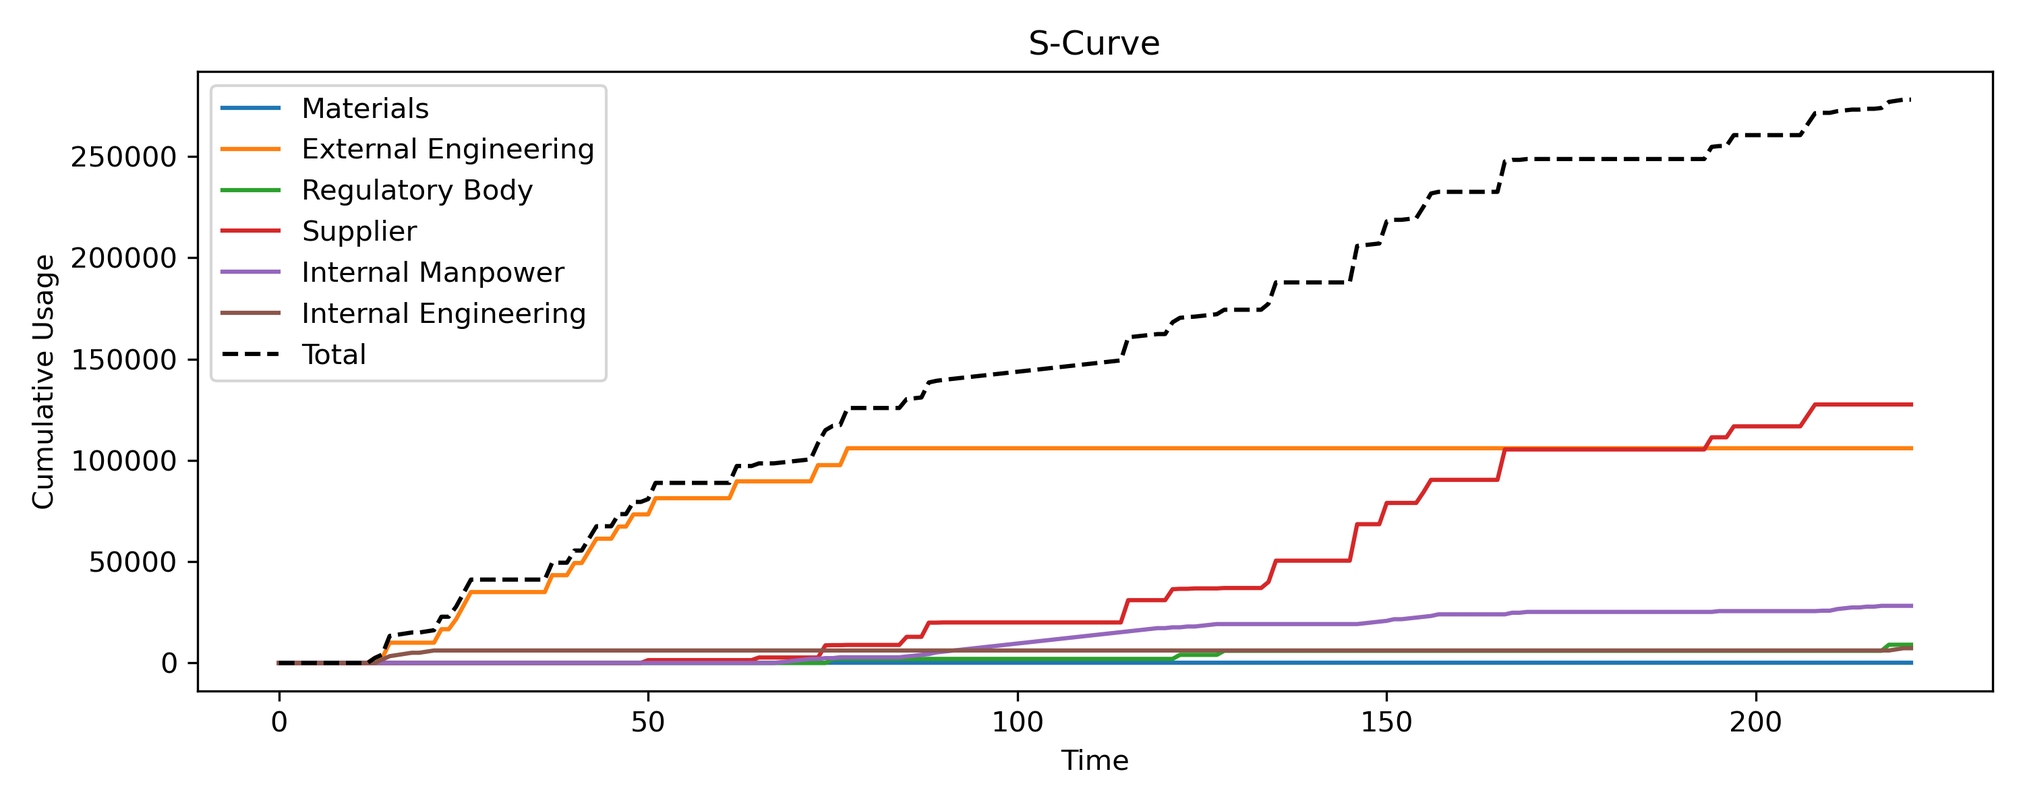
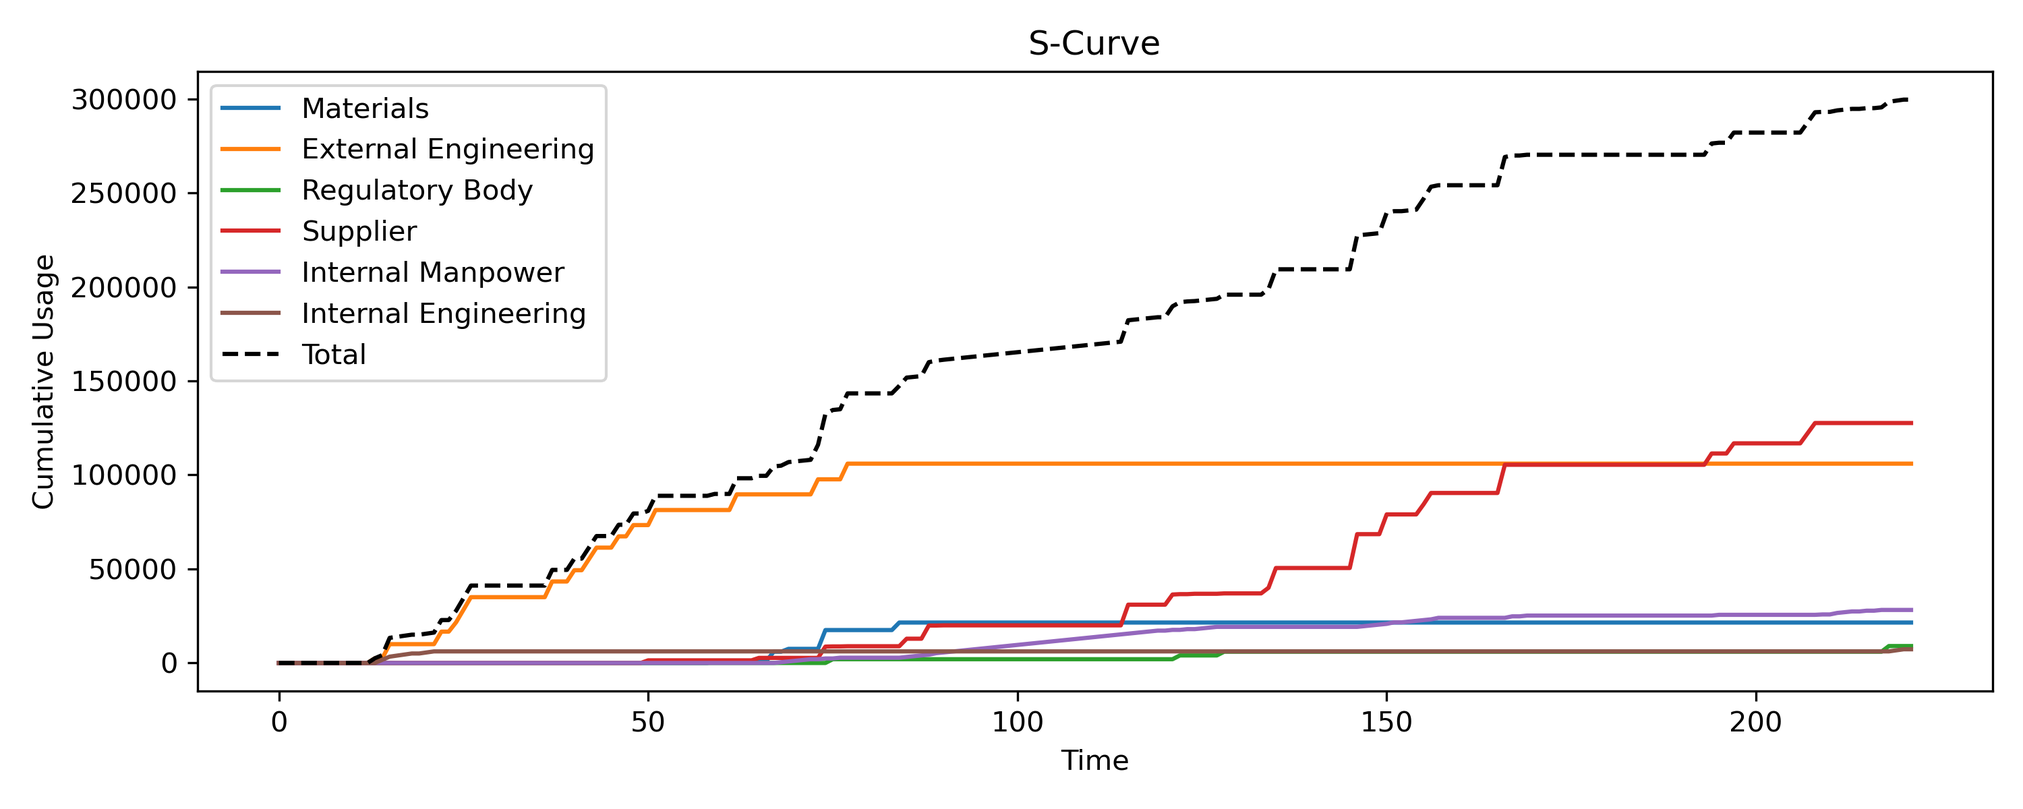
update pm

diff --git a/Project Managment/All_Integrated.py b/Project Managment/All_Integrated.py
@@ -1,8 +1,8 @@
 from graphviz import Digraph
 from collections import defaultdict, deque
-import pandas as pd
 import matplotlib.pyplot as plt
 import pandas as pd
+import numpy as np
 
 section_colors = {
     'Engineering': '#005580',
@@ -26,13 +26,17 @@ column_map = {
     "duration": "Unnamed: 9",
     "section": "Unnamed: 1",
     "parents": "Unnamed: 11", 
-    "Materials": "Unnamed: 13",
+    "Materials": 299577,
     "External Engineering": "Unnamed: 14",
     "Regulatory Body": "Unnamed: 15",
     "Supplier": "Unnamed: 16",
     "Internal Manpower": "Unnamed: 17",
     "Internal Engineering": "Unnamed: 18"
 }
+
+# Print the column names for debugging
+print("Column names in the DataFrame:")
+print(df.columns.tolist())
 
 # Filter the dataframe to the target rows
 df = df.iloc[start_row:end_row].copy()
@@ -228,7 +232,7 @@ def resource_profile():
                     profile[r][int(row['Finish'])] += row[r] / 2
                 else:
                     profile[r][int(row['Finish'])] += row[r]
-
+            # print(f"Resource {r}: {sum(profile[r])}") 
             # "Materials": float(row.get(column_map["Materials"], 0)),
             # "External Engineering": float(row.get(column_map["External Engineering"], 0)),
             # "Regulatory Body": float(row.get(column_map["Regulatory Body"], 0)),
@@ -248,7 +252,6 @@ def resource_profile():
     plt.savefig('resource_profile.png', dpi=300)
 
 def s_curve():
-    import numpy as np
     # Compute cumulative resource for each type
     cumulative_profile = {r: [0]*len(time_range) for r in res_types}
     for r in res_types:
@@ -265,6 +268,29 @@ def s_curve():
     ax.legend()
     plt.tight_layout()
     plt.savefig('s_curve.png', dpi=300)
+
+def cash_flow():
+    cumulative_profile = {r: [0]*len(time_range) for r in res_types}
+    for r in res_types:
+        cumulative_profile[r] = [sum(profile[r][:i+1]) for i in range(len(profile[r]))]
+    cash_outflow = sum(np.array(cumulative_profile[r]) for r in res_types)
+    total_cost = cash_outflow[-1]
+    requested_payment = total_cost * (1 + 0.3)
+    cash_inflow = np.zeros(len(time_range))
+    cash_inflow[0:] += requested_payment * 0.2  # At the beginning
+    cash_inflow[round(len(time_range)/2):] += requested_payment * 0.4  # Second payment
+    cash_inflow[-1] += requested_payment * 0.4  # Final payment at the end
+    cash_flow = cash_inflow - cash_outflow
+    # Plot cash flow
+    fig, ax = plt.subplots(figsize=(10,4))
+    ax.plot(time_range, cash_flow, label='Cash Flow', color='blue')
+    ax.axhline(0, color='black', linestyle='--', linewidth=0.5)
+    ax.set_xlabel('Time')
+    ax.set_ylabel('Cash Flow')
+    ax.set_title('Cash Flow Over Time')
+    ax.legend()
+    plt.tight_layout()
+    plt.savefig('cash_flow.png', dpi=300)
 
 # ----------------------------------------------------------
 task_lookup, children = init()
@@ -294,3 +320,5 @@ network_diagram()
 gantt()
 resource_profile()
 s_curve()
+cash_flow()
+# ----------------------------------------------------------

diff --git a/Project Managment/Notes.md b/Project Managment/Notes.md
@@ -1,0 +1,252 @@
+# Traditional Project Work
+## Executive Summary
+
+This report presents the comprehensive planning and management of an industrial automation project developed in the context of the “Industrial Project Management A” course. The project was executed using traditional (waterfall) project management methodologies, with the goal of delivering a detailed and integrated plan that covers all phases from engineering design to final testing.
+
+The work encompasses a structured breakdown of the project through multiple Work Breakdown Structures (WBS), organized respectively by phase, system, and location. Each WBS variant provided a distinct yet complementary perspective, facilitating clarity in task allocation, cost estimation, and responsibility mapping. Activities were defined with explicit precedence relationships, enabling the construction of a coherent Gantt chart and a network diagram used to identify the critical path and project float.
+
+A full resource and cost breakdown analysis was conducted using real-world assumptions and project constraints. The CBS and associated charts such as the resource usage profile and S-curve allowed for evaluating cumulative effort, financial exposure, and potential optimization strategies. Furthermore, the project included the definition of a cash flow plan, identifying funding needs and timing of expenses, which proved critical in assessing the sustainability of early-start vs. late-start approaches.
+
+The planning also addressed risk management, with a preliminary identification of key risks and mitigation strategies, and outlined a close-out strategy to ensure proper project handover. Although the primary structure followed a waterfall approach, agile elements were adopted during the group collaboration phase to iteratively refine the deliverables and adapt to team availability and feedback.
+
+Overall, this project served as a hands-on application of the methodologies covered in the course, allowing a critical reflection on the interplay between planning tools and managerial decision-making in industrial projects.
+
+## Project Charter
+
+The Project Charter was developed at the conclusion of the planning phase, rather than at the outset. This choice was intentional: by first completing the full breakdown of tasks, structure, scheduling, and resource analysis, the scope and objectives of the project became clearer and more grounded in the actual complexity of the work. Defining the charter retrospectively allowed for a more accurate and comprehensive summary of the project’s rationale, boundaries, and key deliverables.
+
+This approach also ensured alignment between the strategic goals and the operational details identified throughout the planning process. The finalized charter consolidates the refined understanding of stakeholders, constraints, and success criteria, effectively bridging theoretical planning tools with the practical needs of project execution.
+
+## Scope Definition and WBSs
+
+The scope of the project encompasses the complete lifecycle of an industrial automation system, from initial process engineering through procurement, construction, and testing of the final assembly. The objective is to provide a fully functional and validated skid-based system, ready for integration within a larger plant environment.
+
+The scope was defined through a detailed decomposition using three complementary Work Breakdown Structures:
+
+    WBS1: Phase-Oriented, organizing activities by Engineering, Procurement, Construction, and Testing.
+
+    WBS2: System-Oriented, focusing on functional systems such as Process, Piping, Structural, and Electrical & Control.
+
+    WBS3: Location-Oriented, organizing work by physical modules, including the Skid Frame, Piping Module, Equipment Zone, and Control Panel.
+
+This multi-perspective breakdown ensured comprehensive coverage of all project components and facilitated cross-verification between deliverables, responsibilities, and cost/resource estimates.
+
+Each Work Package (WP) includes:
+
+    Estimated duration and required resources
+
+    Logical dependencies enabling scheduling and critical path identification
+
+The project includes approximately 70 interconnected activities, each linked by defined precedencies. All timing, cost, and resource inputs have been developed to support the use of professional project management tools (e.g., MS Project), ensuring that the plan could be realistically implemented in a real-world context.
+
+Out of scope are post-deployment activities, such as on-site integration, operational training, and long-term maintenance, which are assumed to be managed in a separate phase by the client.
+
+## Organizational Breakdown Structure (OBS)
+
+The Organizational Breakdown Structure (OBS) was developed to define the distribution of responsibilities across functional domains and to ensure accountability throughout all phases of the project. It complements the Work Breakdown Structure by mapping each work package or group of activities to the organizational units responsible for their execution.
+
+In this project, the OBS was structured to reflect the main functional areas involved:
+
+    Engineering Department: responsible for process design, technical documentation, 3D modeling, instrumentation, and control logic
+
+    Procurement Office: responsible for acquiring components, managing supplier relationships, and coordinating deliveries
+
+    Construction Team: responsible for mechanical prefabrication, erection, and installation of piping, structures, and equipment
+
+    Quality and Testing Unit: responsible for conducting factory acceptance tests (FAT), inspection activities, and final system validation
+
+    Project Management Office (PMO): responsible for coordinating planning, progress tracking, and overall supervision
+
+Each WBS element was cross-referenced with the OBS to clarify ownership and facilitate delegation of responsibilities. This linkage supports not only planning but also later phases of project control, risk management, and change handling.
+
+By aligning the WBS with the OBS, we ensured that all deliverables have a designated owner and that no scope elements are left unassigned—an essential condition for effective execution in a complex, multidisciplinary project environment.
+
+
+## Work Package Description
+
+Each work package (WP) in the project represents a self-contained unit of work with clearly defined deliverables, responsible parties, resource allocations, and dependencies. The WP structure was derived from the WBS and refined to ensure completeness and traceability in both scheduling and cost estimation.
+
+The purpose of this section is to present a standardized overview of selected work packages that cover the major functional and temporal segments of the project. This level of granularity ensures clarity in execution, aids progress tracking, and allows efficient allocation of both human and material resources.
+
+The following template has been adopted for each WP description:
+WP Name: [Insert Work Package Title]
+
+    Description:
+    [Brief explanation of the objective and scope of the WP]
+
+    Estimated Duration: [e.g., 10 working days]
+
+    Resources Involved:
+    – External Engineering: €xxx
+    – Internal Engineering: €xxx
+    – Materials: €xxx
+    – Supplier: €xxx
+
+    Dependencies:
+    [List of predecessor WPs or milestones]
+
+    Responsible Unit (OBS): [e.g., Engineering Department]
+
+    Risks / Notes:
+    [Any known issues, constraints, or risk considerations]
+
+
+## Cost Estimation
+
+The project’s cost estimation was conducted by aggregating resource-based costs at the work package level, using data defined in the Work Breakdown Structure and refined through the Cost Breakdown Structure (CBS). Each task was associated with one or more resource categories, including:
+
+    Materials
+
+    External Engineering
+
+    Supplier-provided Components
+
+    Internal Manpower
+
+    Internal Engineering
+
+These were estimated either as lump-sum values (e.g., for procurement items and subcontracted services) or time-phased allocations (e.g., for internal labor and engineering hours).
+
+The total projected cost of the project amounts to approximately €297,177, broken down into:
+
+    External Costs: €263,097 (∼89%), including materials, external engineering, and supplier items
+
+    Internal Costs: €34,080 (∼11%), including internal manpower and engineering
+
+This distribution reflects the industrial nature of the project, where most of the value is embedded in externally sourced equipment and services.
+
+The CBS structure helped validate consistency between WBS items and cost drivers, enabling cross-checks between time scheduling, deliverables, and financial expectations. Costs were also used as inputs for resource profiling, cash flow planning, and the S-curve analysis to ensure alignment across planning layers.
+
+Overall, the estimation process supported the development of a financially traceable and executable project plan, suitable for future monitoring and control.
+
+## Resource Management
+
+Resource management in this project was structured around the identification, allocation, and time-distributed usage of five main resource categories: Materials, External Engineering, Supplier, Internal Manpower, and Internal Engineering. Each activity in the work plan was linked to one or more of these resources, with corresponding cost and workload estimates derived from realistic industrial assumptions.
+
+To evaluate the temporal distribution of resources, a resource profile was generated by mapping resource usage across the project timeline. This visualization provided insights into peak demand periods, helping to identify potential bottlenecks and enabling smoothing strategies where feasible.
+
+The allocation strategy distinguishes between:
+
+    Continuous resources, such as internal engineering effort, distributed over the duration of the task
+
+    Discrete or milestone-based resources, such as supplier costs, often assigned at the start or end of the procurement phase
+
+The analysis showed that engineering resources are heavily concentrated in the early stages, while material and supplier-related expenses dominate the mid-project timeline. This time-phased resource mapping was essential not only for scheduling but also for generating accurate S-curves and conducting the cash flow analysis.
+
+Overall, the resource management plan ensured that all deliverables were adequately supported, while also highlighting opportunities to optimize timing and reduce financial exposure.
+
+## Scheduling and Time Management
+
+The project schedule was developed by establishing clear precedence relationships among all identified tasks and then computing both early and late schedules to analyze flexibility and exposure. Using the defined network of dependencies, a full forward and backward pass was executed to determine the early start (ES), early finish (EF), late start (LS), and late finish (LF) for each activity, thereby identifying the critical path and available float.
+
+Two scheduling strategies were compared:
+
+    Early Start Plan: All tasks are scheduled as soon as possible.
+
+    Late Start Plan: Tasks are delayed as much as possible without affecting the overall project duration.
+
+The early start approach revealed a high financial and resource exposure during the initial and middle stages of the project. However, it also highlighted significant free float in non-critical activities, offering flexibility to optimize the allocation of resources and delay certain purchases or efforts without impacting the final delivery date.
+
+To mitigate financial strain, a revised cash flow strategy was evaluated. In particular, we considered modifying the supplier payment structure from the traditional 50%-50% split (upfront and at delivery) to a more back-loaded scheme (e.g., 30% upfront, 70% at delivery). This adjustment could significantly reduce early cash outflows while maintaining supplier commitment.
+
+The final schedule includes a Gantt chart showing all task durations and dependencies, as well as a network diagram for visualizing the logical sequence and critical path. Both resource loading profiles and S-curve charts were derived from the schedule to support time-phased cost and effort analysis.
+
+## Cash Flow and Project Balance
+
+A detailed cash flow analysis was carried out to assess the financial feasibility and sustainability of the project across its duration. Starting from the resource-loaded schedule, we computed both outflows (costs incurred) and inflows (client payments), generating a time-distributed cash flow curve and cumulative S-curve.
+
+The analysis was first performed under a conventional early-start planning approach, which resulted in significant expenditure peaks during the early and mid-project phases. This front-loaded financial exposure, if not properly managed, could introduce liquidity risks and reduce the project's financial resilience.
+
+To improve the financial balance, we explored alternative payment strategies. A revised scheme, such as shifting supplier payments from a 50%-50% split to a 30%-70% model, demonstrated potential to smooth cash outflows without compromising deliverables. This would delay a significant portion of expenses to later phases, aligning them more closely with revenue streams or funding milestones.
+
+Additionally, the S-curve revealed that while cumulative effort and spending accelerate rapidly during engineering and procurement, there is a plateau near the end where spending slows and testing activities dominate. This information is crucial for resource and budget reallocation, as well as for negotiating better terms with vendors.
+
+Overall, the cash flow assessment allowed us to identify imbalances and propose realistic mitigation strategies, supporting a more stable financial trajectory for the project.
+
+## Risk Management
+
+Risk management in this project was approached as a proactive process aimed at identifying, evaluating, and mitigating potential threats that could impact the project’s objectives in terms of time, cost, quality, or scope. Although the project follows a waterfall structure, early-stage risk analysis was integrated into the planning process to ensure responsiveness throughout execution.
+
+Risks were categorized into four main areas:
+
+    Technical risks: e.g., errors in engineering deliverables, design rework
+
+    Procurement risks: e.g., supplier delays, component unavailability
+
+    Construction risks: e.g., site conditions, labor productivity issues
+
+    Managerial risks: e.g., coordination failures, scope creep
+
+Each identified risk was evaluated based on its probability of occurrence and potential impact, allowing prioritization through a basic qualitative risk matrix. For example:
+
+    Supplier delay of critical components: high impact, medium probability → mitigated by defining early procurement milestones and backup suppliers
+
+    Engineering rework due to incomplete inputs: medium impact, medium probability → mitigated through internal peer reviews and phased document releases
+
+Where appropriate, float identified during the scheduling phase was used as a buffer against timeline risks, particularly for non-critical path activities. For financial risks, such as cost overruns, resource usage profiles and cash flow models were used to simulate stress scenarios.
+
+Risk monitoring would be conducted periodically throughout execution, with the possibility of introducing corrective actions or updated contingency plans when necessary. This ensures that risk management remains a continuous and adaptive process.
+
+## Progress Evaluation
+
+Progress evaluation in this project is designed to ensure timely monitoring, early detection of deviations, and proactive corrective actions. The structure of the plan supports tracking at the Work Package (WP) level, with progress assessed based on both physical completion and resource consumption.
+
+Key metrics identified for progress tracking include:
+
+    Percentage of completion per WP, updated based on deliverables or milestone achievement
+
+    Planned vs. Actual Timeline Comparison, using Gantt chart overlays
+
+    Earned Value Analysis (EVA) indicators such as:
+
+        EV (Earned Value): value of work completed to date
+
+        PV (Planned Value): baseline expectation at that time
+
+        AC (Actual Cost): real cost incurred to date
+
+        SPI / CPI: schedule and cost performance indices
+
+In addition, control points were defined at the end of major project phases (e.g., end of engineering, procurement, mechanical erection), enabling formal milestone reviews and progress validation.
+
+The early identification of float in the schedule also offers flexibility: in case of delays in non-critical tasks, corrective actions can be prioritized without impacting the overall project duration.
+
+Regular progress updates would be conducted through weekly or bi-weekly reviews with the responsible OBS units, ensuring alignment between planning and execution throughout the project lifecycle.
+
+## Close-Out
+
+The project close-out phase is structured to ensure a controlled and verifiable conclusion of all planned activities. It includes both technical and administrative procedures required to formally complete the project, deliver final outputs, and transfer responsibility to the client or end-user.
+
+Close-out begins with a comprehensive review of completed deliverables against the original scope, using predefined acceptance criteria. This ensures that all outputs conform to expected quality levels and contractual obligations. Special attention is given to testing-related activities such as Factory Acceptance Tests (FATs), dimensional checks, and non-destructive testing (NDT), which serve as key verification milestones for both structural and process components.
+
+Documentation is a critical part of the close-out phase. A complete Documentation Pack is prepared, including design files, test reports, certificates, and any as-built documentation. This package supports future maintenance, regulatory compliance, and operational readiness.
+
+From a managerial perspective, the close-out process includes:
+
+    Final resource and cost reconciliation
+
+    Lessons learned documentation
+
+    Closure of procurement contracts
+
+    Internal debriefs with functional units
+
+Only after formal acceptance and administrative closure will the project be considered fully concluded. This approach ensures transparency, traceability, and organizational learning for future projects.
+
+## Lessons Learned
+
+Developing this project plan provided valuable insights into the practical application of traditional project management methodologies. One key takeaway was the importance of thoroughly defining the Work Breakdown Structure before attempting scheduling or cost estimation. Iterating through different WBS perspectives (phase, system, location) not only improved clarity but also revealed gaps that would have otherwise gone unnoticed.
+
+We also learned that planning tools are only as effective as the assumptions behind them—small inaccuracies in task durations or dependencies can significantly impact the schedule and resource distribution. Comparing early and late start strategies helped us better understand the trade-offs between flexibility and financial exposure, especially when considering cash flow constraints.
+
+From a team perspective, applying Agile principles informally during our internal coordination—such as short sync meetings and incremental reviews—proved helpful even within a waterfall framework. This hybrid approach improved our ability to adapt and converge on a coherent final output.
+
+Overall, the exercise reinforced the value of structured planning while highlighting the need for constant validation and communication across team roles.
+
+## Conclusion
+
+This project demonstrated the comprehensive application of traditional project management techniques to a semi-real industrial case. Through the structured development of scope, scheduling, cost estimation, and resource planning, we were able to produce a coherent and executable plan aligned with professional standards. The integration of multiple WBS structures and detailed resource and cost breakdowns enabled a multi-dimensional view of the project, enhancing control and traceability.
+
+Beyond the technical deliverables, the project offered an opportunity to reflect on planning decisions, evaluate scheduling alternatives, and explore the financial implications of different execution strategies. It also highlighted the benefit of blending formal planning tools with agile collaboration methods, especially in a team setting.
+
+Overall, the work confirmed that while planning methodologies offer a strong foundation, their real value emerges when combined with critical thinking, iteration, and clear communication. The deliverables presented here lay the groundwork for successful project execution, while the lessons learned will inform future project management efforts, both academic and professional.
